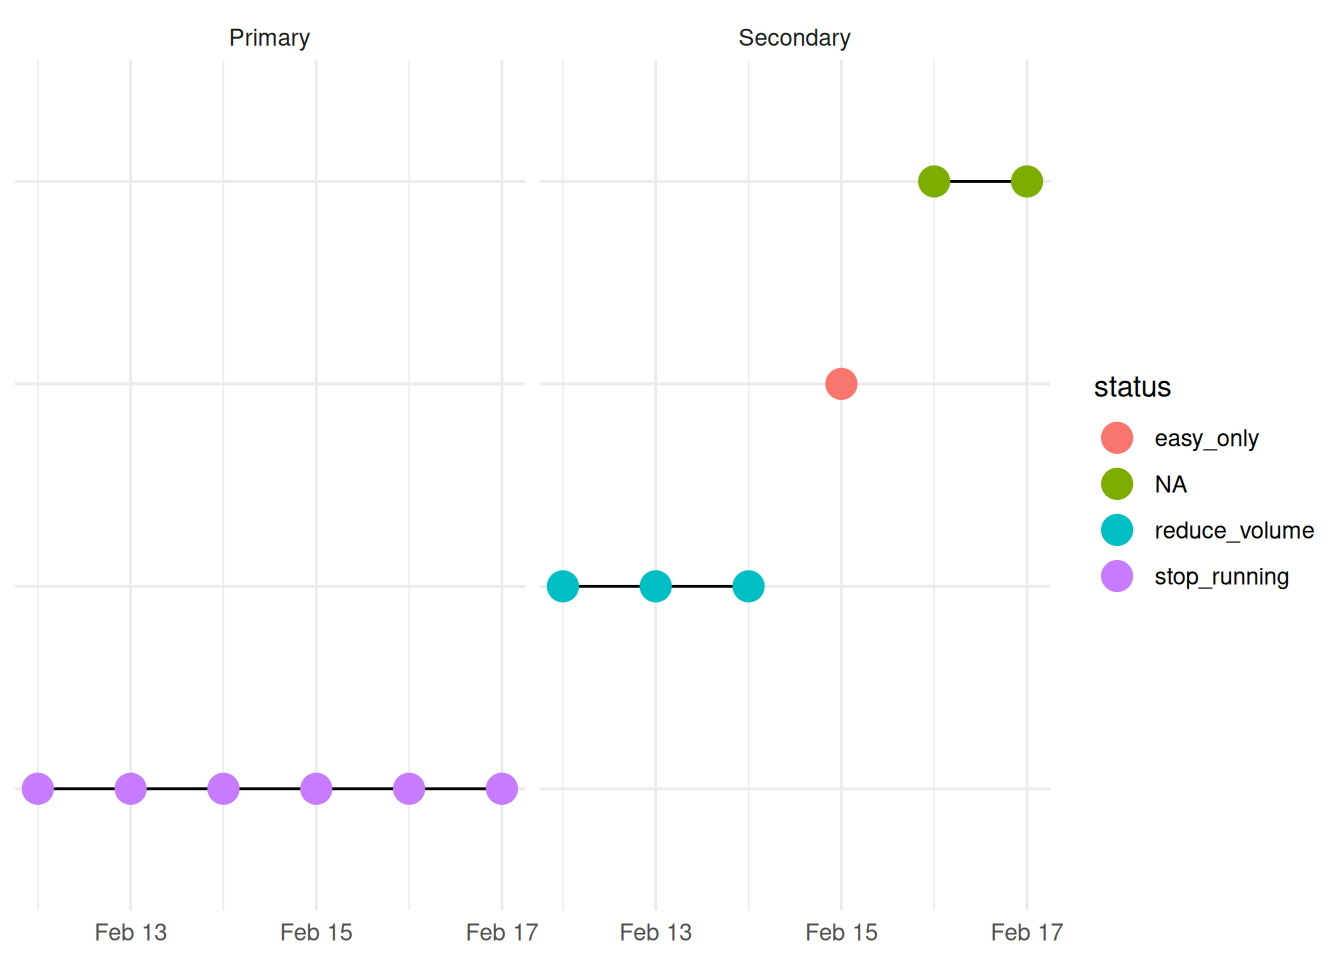
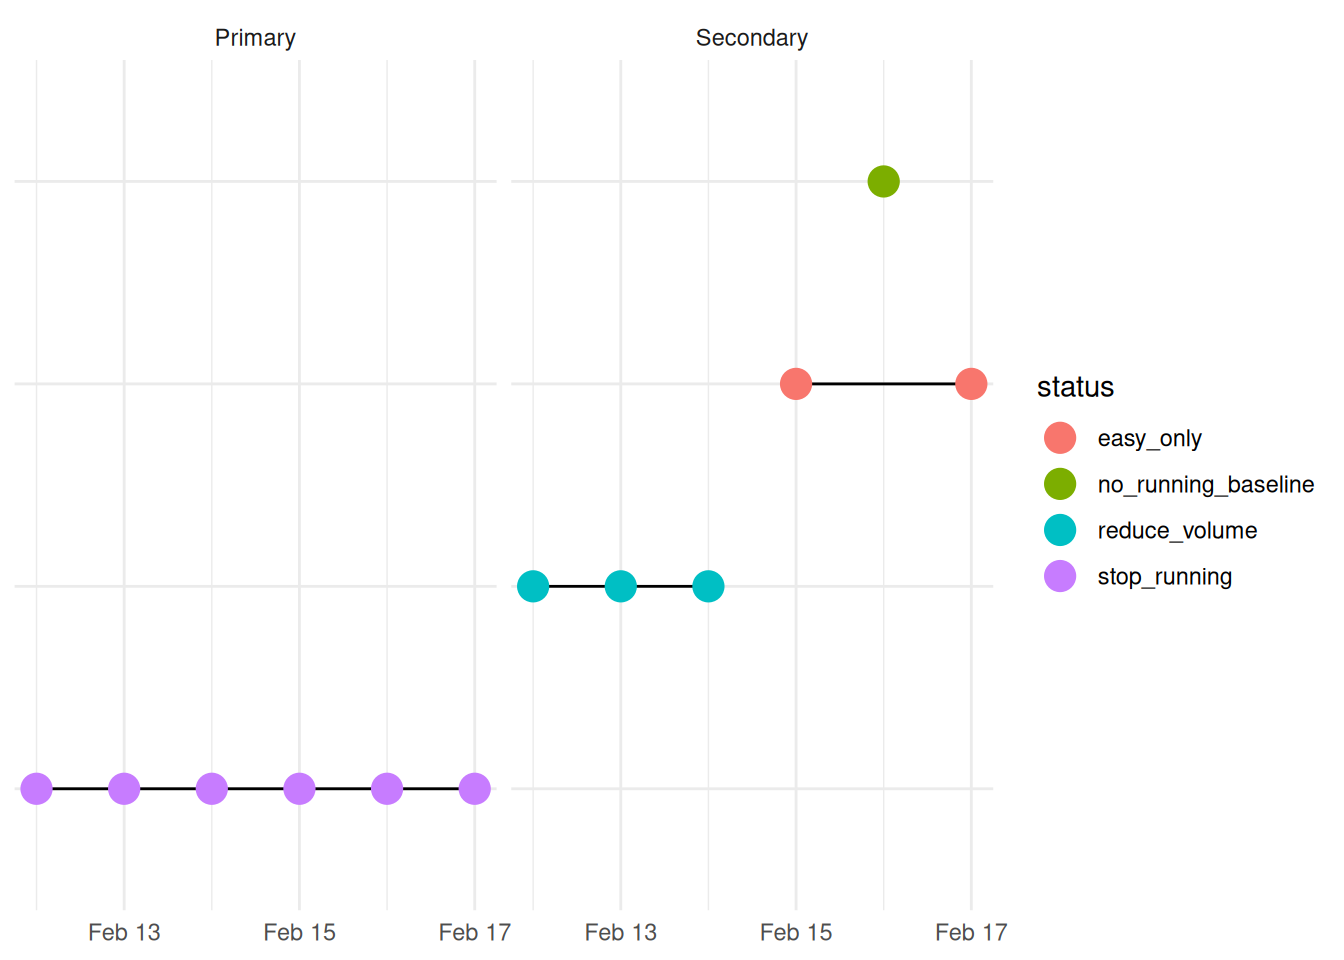
deploy: d87ea1f66647589ceff11917c72afb64b85af661

diff --git a/index.html b/index.html
@@ -142,7 +142,7 @@ ul.task-list li input[type="checkbox"] {
 <h3 class="anchored" data-anchor-id="details-for-todays-training-status">Details for Today’s Training Status</h3>
 <p><strong>Message:</strong> Running is blocked today; other modalities may still be performed with caution.</p>
 <p><strong>What’s the problem:</strong> Some functional restriction present.</p>
-<p><strong>Which activities are blocked:</strong></p>
+<p><strong>Which activities are blocked:</strong> running</p>
 </section>
 <section id="second-status-if-active" class="level3">
 <h3 class="anchored" data-anchor-id="second-status-if-active">Second Status if Active</h3>
@@ -153,12 +153,15 @@ ul.task-list li input[type="checkbox"] {
      border-radius:20px;
      font-weight:600;
      color:white;
-     background-color:NA;">NA</div>
+     background-color:#F49937;">EASY TRAINING ONLY</div>
 </div>
 </div>
-<p><strong>Message:</strong> NA{style=“padding: 0px 1px; border-width: 1px; border-style: solid; border-color: rgb(91, 91, 91) !important; border-image: initial; background-color: rgb(71, 71, 71) !important; font-family: Monaco, monospace !important; font-size: 9pt !important;”}</p>
-<p><strong>What’s the problem:</strong> NA{style=“padding: 0px 1px; border-width: 1px; border-style: solid; border-color: rgb(91, 91, 91) !important; border-image: initial; background-color: rgb(71, 71, 71) !important; font-family: Monaco, monospace !important; font-size: 9pt !important;”}</p>
-<p><strong>Which activities are blocked:</strong> {style=“padding: 0px 1px; border-width: 1px; border-style: solid; border-color: rgb(91, 91, 91) !important; border-image: initial; background-color: rgb(71, 71, 71) !important; font-family: Monaco, monospace !important; font-size: 9pt !important;”}</p>
+<section id="details-of-the-second-status" class="level4">
+<h4 class="anchored" data-anchor-id="details-of-the-second-status">Details of the Second Status</h4>
+<p><strong>Message:</strong> Only easy/low-intensity training recommended today. Look for some soft surfaces and just enjoy the easy run. Training will become harder soon.{style=“padding: 0px 1px; border-width: 1px; border-style: solid; border-color: rgb(91, 91, 91) !important; border-image: initial; background-color: rgb(71, 71, 71) !important; font-family: Monaco, monospace !important; font-size: 9pt !important;”}</p>
+<p><strong>What’s the problem:</strong> Some pain detected. Take it easy only on grass or soft trails.{style=“padding: 0px 1px; border-width: 1px; border-style: solid; border-color: rgb(91, 91, 91) !important; border-image: initial; background-color: rgb(71, 71, 71) !important; font-family: Monaco, monospace !important; font-size: 9pt !important;”}</p>
+<p><strong>Which activities are blocked:</strong> NA{style=“padding: 0px 1px; border-width: 1px; border-style: solid; border-color: rgb(91, 91, 91) !important; border-image: initial; background-color: rgb(71, 71, 71) !important; font-family: Monaco, monospace !important; font-size: 9pt !important;”}</p>
+</section>
 </section>
 <section id="development-of-training-status" class="level3">
 <h3 class="anchored" data-anchor-id="development-of-training-status">Development of Training Status</h3>
@@ -251,8 +254,8 @@ ul.task-list li input[type="checkbox"] {
 <h3 class="anchored" data-anchor-id="goal-volume-by-heart-rate-distribution">Goal Volume by Heart Rate Distribution</h3>
 <div class="cell">
 <div class="cell-output-display">
-<div class="datatables html-widget html-fill-item" id="htmlwidget-e029af0dc3f0ef807d2a" style="width:100%;height:auto;"></div>
-<script type="application/json" data-for="htmlwidget-e029af0dc3f0ef807d2a">{"x":{"filter":"none","vertical":false,"data":[[0,1,2,3,4],["&lt;125","125-143","144-160","161-177","178-200"],[0,40,50,8,2],[22.1,32.8,43.9,1.2,0],[null,null,null,null,null]],"container":"<table class=\"display\">\n  <thead>\n    <tr>\n      <th>Zone<\/th>\n      <th>Current HR Thresholds<\/th>\n      <th>Share (in %)<\/th>\n      <th>Share Last Week Total (in %)<\/th>\n      <th>Share Last Week Running (in %)<\/th>\n    <\/tr>\n  <\/thead>\n<\/table>","options":{"dom":"t","paging":false,"ordering":false,"info":false,"columnDefs":[{"className":"dt-right","targets":[0,2,3,4]},{"name":"Zone","targets":0},{"name":"Current HR Thresholds","targets":1},{"name":"Share (in %)","targets":2},{"name":"Share Last Week Total (in %)","targets":3},{"name":"Share Last Week Running (in %)","targets":4}],"order":[],"autoWidth":false,"orderClasses":false}},"evals":[],"jsHooks":[]}</script>
+<div class="datatables html-widget html-fill-item" id="htmlwidget-f4ce35aba44d415c48be" style="width:100%;height:auto;"></div>
+<script type="application/json" data-for="htmlwidget-f4ce35aba44d415c48be">{"x":{"filter":"none","vertical":false,"data":[[0,1,2,3,4],["&lt;125","125-143","144-160","161-177","178-200"],[0,40,50,8,2],[22.1,32.8,43.9,1.2,0],[null,null,null,null,null]],"container":"<table class=\"display\">\n  <thead>\n    <tr>\n      <th>Zone<\/th>\n      <th>Current HR Thresholds<\/th>\n      <th>Share (in %)<\/th>\n      <th>Share Last Week Total (in %)<\/th>\n      <th>Share Last Week Running (in %)<\/th>\n    <\/tr>\n  <\/thead>\n<\/table>","options":{"dom":"t","paging":false,"ordering":false,"info":false,"columnDefs":[{"className":"dt-right","targets":[0,2,3,4]},{"name":"Zone","targets":0},{"name":"Current HR Thresholds","targets":1},{"name":"Share (in %)","targets":2},{"name":"Share Last Week Total (in %)","targets":3},{"name":"Share Last Week Running (in %)","targets":4}],"order":[],"autoWidth":false,"orderClasses":false}},"evals":[],"jsHooks":[]}</script>
 </div>
 </div>
 
